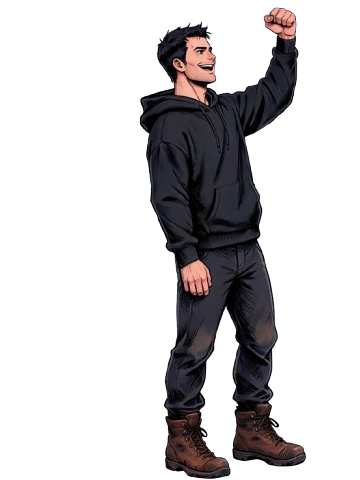
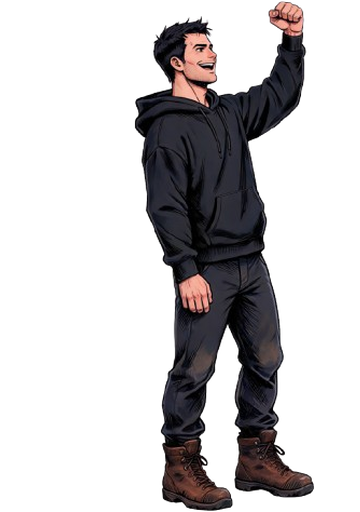
Match player_win to the run frames' scale
The win pose was drawn noticeably smaller than the running frames (head
~8px lower). Scale the drawing up so the character matches the run
frames and give it a taller 360x512 canvas for the raised fist. The
game now draws non-run poses at the run frames' scale, anchored at the
feet, so a taller image is not squashed into the run box.

Claude-Session: https://claude.ai/code/session_012fdeXPbFnKvPofyAPBL35j

Changed region(s): [[0.3667, 0.0, 0.8861, 1.0], [0.5194, 0.3438, 0.55, 0.375]]

diff --git a/game.js b/game.js
@@ -431,7 +431,10 @@ const witch = {
 // agertzean irudi handia deskodetu/eskalatu beharrak tirankadarik ez eragiteko
 function prewarmCaches() {
   ['player_run_1', 'player_run_2', 'player_run_3', 'player_run_4', 'player_run_5',
-    'player_run_6', 'player_jump', 'player_win'].forEach((k) => scaledSprite(k, player.w, player.h));
+    'player_run_6', 'player_jump', 'player_win'].forEach((k) => {
+    const b = playerDrawBox(k);
+    scaledSprite(k, b.w, b.h);
+  });
   scaledSprite('witch', witch.w, witch.h);
   ['root_1', 'root_2', 'root_3'].forEach((k) => {
     const box = obstacleBox(k);
@@ -549,6 +552,17 @@ function spriteMask(key, w, h) {
   }
   maskCache.set(id, mask);
   return mask;
+}
+
+// Korrika-frameen eskala berean marrazten da beste edozein pose (adib.
+// player_win-ek goialdean toki gehiago du ukabil altxaturako): irudiaren
+// tamaina errealaren arabera eskalatzen da player_run_1-ekiko, oinetan lotuta.
+function playerDrawBox(key) {
+  const img = assets[key], ref = assets.player_run_1;
+  if (!img || !ref || key.startsWith('player_run_')) return { w: player.w, h: player.h, dy: 0 };
+  const w = player.w * imgWidth(img) / imgWidth(ref);
+  const h = player.h * imgHeight(img) / imgHeight(ref);
+  return { w, h, dy: player.h - h };
 }
 
 function playerSpriteKey() {
@@ -816,7 +830,8 @@ function render() {
 
   // jokalaria
   const px = LOGICAL_W * PLAYER_X_RATIO;
-  drawSprite(ctx, playerSpriteKey(), px, player.y, player.w, player.h);
+  const pb = playerDrawBox(playerSpriteKey());
+  drawSprite(ctx, playerSpriteKey(), px, player.y + pb.dy, pb.w, pb.h);
 
   // fundido beltzera irabazte-sekuentziaren amaieran
   if (gameState === 'winSeq' && winSeq && winSeq.phase === 'fadeout') {

diff --git a/assets/README.md b/assets/README.md
@@ -42,7 +42,7 @@ dardara egingo baitu frame batetik bestera.
 |---|---|---|
 | `player_run_1.png` … `player_run_6.png` | 120×160 | Bai. Korrika animazioaren 6 frame (12 fps-ra erreproduzitzen dira). |
 | `player_jump.png` | 120×160 | Bai. Jauzian dagoenean erakusten den irudia. |
-| `player_win.png` | 120×160 | Bai. Harria/eguzkilorea lortzean erakusten den irudia (irabazi-posea). |
+| `player_win.png` | 120×160 (goian altuago izan daiteke) | Bai. Harria/eguzkilorea lortzean erakusten den irudia (irabazi-posea). Korrika-frameen eskala berean marrazten da, oinetan lotuta; beraz ukabila altxatuta badu, irudia goitik altuagoa izan daiteke (adib. 360×512) pertsonaia txikitu gabe. |
 
 ## /enemies
 
